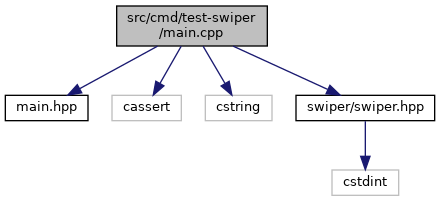
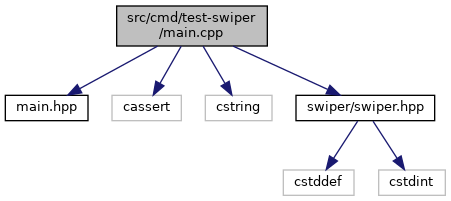
Travis build: 95
Commit: 0c1e7c0692e54abf0f312cadbbbaaf14a0927a81

diff --git a/swiper_8hpp_source.html b/swiper_8hpp_source.html
@@ -71,20 +71,21 @@ $(function() {
 <div class="contents">
 <a href="swiper_8hpp.html">Go to the documentation of this file.</a><div class="fragment"><div class="line"><a name="l00001"></a><span class="lineno">    1</span>&#160;<span class="preprocessor">#pragma once</span></div>
 <div class="line"><a name="l00002"></a><span class="lineno">    2</span>&#160; </div>
-<div class="line"><a name="l00010"></a><span class="lineno">   10</span>&#160;<span class="preprocessor">#include &lt;cstdint&gt;</span></div>
-<div class="line"><a name="l00011"></a><span class="lineno">   11</span>&#160; </div>
-<div class="line"><a name="l00015"></a><span class="lineno"><a class="line" href="namespaceswiper.html">   15</a></span>&#160;<span class="keyword">namespace </span><a class="code" href="namespaceswiper.html">swiper</a> {</div>
-<div class="line"><a name="l00027"></a><span class="lineno">   27</span>&#160;    <span class="keywordtype">void</span> <a class="code" href="namespaceswiper.html#a098835d2b17c1d3924a119f43deda723">Encrypt</a>(<span class="keywordtype">char</span> *hash, int16_t seed, <span class="keyword">const</span> <span class="keywordtype">char</span> *password) noexcept;</div>
-<div class="line"><a name="l00028"></a><span class="lineno">   28</span>&#160; </div>
-<div class="line"><a name="l00037"></a><span class="lineno">   37</span>&#160;    <span class="keywordtype">void</span> <a class="code" href="namespaceswiper.html#a5454b273ec2a80c65d11f67e398ae720">WarmCache</a>(<span class="keywordtype">char</span> *password, <span class="keyword">const</span> <span class="keywordtype">char</span> *hash, int32_t n) noexcept;</div>
-<div class="line"><a name="l00038"></a><span class="lineno">   38</span>&#160; </div>
-<div class="line"><a name="l00050"></a><span class="lineno">   50</span>&#160;    <span class="keywordtype">void</span> <a class="code" href="namespaceswiper.html#a44449e9a1724cda79ba09564c58e259a">Decrypt</a>(<span class="keywordtype">char</span> *password, <span class="keyword">const</span> <span class="keywordtype">char</span> *hash) noexcept;</div>
-<div class="line"><a name="l00051"></a><span class="lineno">   51</span>&#160;}</div>
+<div class="line"><a name="l00010"></a><span class="lineno">   10</span>&#160;<span class="preprocessor">#include &lt;cstddef&gt;</span></div>
+<div class="line"><a name="l00011"></a><span class="lineno">   11</span>&#160;<span class="preprocessor">#include &lt;cstdint&gt;</span></div>
+<div class="line"><a name="l00012"></a><span class="lineno">   12</span>&#160; </div>
+<div class="line"><a name="l00016"></a><span class="lineno"><a class="line" href="namespaceswiper.html">   16</a></span>&#160;<span class="keyword">namespace </span><a class="code" href="namespaceswiper.html">swiper</a> {</div>
+<div class="line"><a name="l00028"></a><span class="lineno">   28</span>&#160;    <span class="keywordtype">void</span> <a class="code" href="namespaceswiper.html#a8665843a456e8c5704a5f38d2c628ecd">Encrypt</a>(<span class="keywordtype">char</span> *hash, <span class="keywordtype">size_t</span> seed, <span class="keyword">const</span> <span class="keywordtype">char</span> *password) noexcept;</div>
+<div class="line"><a name="l00029"></a><span class="lineno">   29</span>&#160; </div>
+<div class="line"><a name="l00038"></a><span class="lineno">   38</span>&#160;    <span class="keywordtype">void</span> <a class="code" href="namespaceswiper.html#a5454b273ec2a80c65d11f67e398ae720">WarmCache</a>(<span class="keywordtype">char</span> *password, <span class="keyword">const</span> <span class="keywordtype">char</span> *hash, int32_t n) noexcept;</div>
+<div class="line"><a name="l00039"></a><span class="lineno">   39</span>&#160; </div>
+<div class="line"><a name="l00051"></a><span class="lineno">   51</span>&#160;    <span class="keywordtype">void</span> <a class="code" href="namespaceswiper.html#a44449e9a1724cda79ba09564c58e259a">Decrypt</a>(<span class="keywordtype">char</span> *password, <span class="keyword">const</span> <span class="keywordtype">char</span> *hash) noexcept;</div>
+<div class="line"><a name="l00052"></a><span class="lineno">   52</span>&#160;}</div>
 </div><!-- fragment --></div><!-- contents -->
-<div class="ttc" id="anamespaceswiper_html"><div class="ttname"><a href="namespaceswiper.html">swiper</a></div><div class="ttdoc">swiper manages legacy Cisco IOS^tm type 7 passwords.</div><div class="ttdef"><b>Definition:</b> swiper.hpp:15</div></div>
+<div class="ttc" id="anamespaceswiper_html_a8665843a456e8c5704a5f38d2c628ecd"><div class="ttname"><a href="namespaceswiper.html#a8665843a456e8c5704a5f38d2c628ecd">swiper::Encrypt</a></div><div class="ttdeci">void Encrypt(char *hash, size_t seed, const char *password) noexcept</div><div class="ttdoc">Encrypt produces Cisco IOS^tm type 7 hashes.</div><div class="ttdef"><b>Definition:</b> swiper.cpp:43</div></div>
+<div class="ttc" id="anamespaceswiper_html"><div class="ttname"><a href="namespaceswiper.html">swiper</a></div><div class="ttdoc">swiper manages legacy Cisco IOS^tm type 7 passwords.</div><div class="ttdef"><b>Definition:</b> swiper.hpp:16</div></div>
 <div class="ttc" id="anamespaceswiper_html_a44449e9a1724cda79ba09564c58e259a"><div class="ttname"><a href="namespaceswiper.html#a44449e9a1724cda79ba09564c58e259a">swiper::Decrypt</a></div><div class="ttdeci">void Decrypt(char *password, const char *hash) noexcept</div><div class="ttdoc">Decrypt reverses Cisco IOS type 7 hashes.</div><div class="ttdef"><b>Definition:</b> swiper.cpp:70</div></div>
 <div class="ttc" id="anamespaceswiper_html_a5454b273ec2a80c65d11f67e398ae720"><div class="ttname"><a href="namespaceswiper.html#a5454b273ec2a80c65d11f67e398ae720">swiper::WarmCache</a></div><div class="ttdeci">void WarmCache(char *password, const char *hash, int32_t n) noexcept</div><div class="ttdoc">WarmCache accelerates successive Decrypt calls, by prepopulating the system cache.</div><div class="ttdef"><b>Definition:</b> swiper.cpp:63</div></div>
-<div class="ttc" id="anamespaceswiper_html_a098835d2b17c1d3924a119f43deda723"><div class="ttname"><a href="namespaceswiper.html#a098835d2b17c1d3924a119f43deda723">swiper::Encrypt</a></div><div class="ttdeci">void Encrypt(char *hash, int16_t seed, const char *password) noexcept</div><div class="ttdoc">Encrypt produces Cisco IOS^tm type 7 hashes.</div><div class="ttdef"><b>Definition:</b> swiper.cpp:43</div></div>
 <!-- start footer part -->
 <hr class="footer"/><address class="footer"><small>
 Generated by &#160;<a href="http://www.doxygen.org/index.html">

diff --git a/swiper_8cpp.html b/swiper_8cpp.html
@@ -83,13 +83,14 @@ Include dependency graph for swiper.cpp:</div>
 <div class="dyncontent">
 <div class="center"><img src="swiper_8cpp__incl.png" border="0" usemap="#src_2swiper_8cpp" alt=""/></div>
 <map name="src_2swiper_8cpp" id="src_2swiper_8cpp">
-<area shape="rect" title=" " alt="" coords="239,5,353,32"/>
-<area shape="rect" href="swiper_8hpp.html" title=" " alt="" coords="5,80,144,107"/>
-<area shape="rect" title=" " alt="" coords="168,80,235,107"/>
-<area shape="rect" title=" " alt="" coords="259,80,333,107"/>
-<area shape="rect" title=" " alt="" coords="357,80,437,107"/>
-<area shape="rect" title=" " alt="" coords="461,80,536,107"/>
-<area shape="rect" title=" " alt="" coords="41,155,108,181"/>
+<area shape="rect" title=" " alt="" coords="251,5,366,32"/>
+<area shape="rect" href="swiper_8hpp.html" title=" " alt="" coords="18,80,157,107"/>
+<area shape="rect" title=" " alt="" coords="181,80,247,107"/>
+<area shape="rect" title=" " alt="" coords="271,80,346,107"/>
+<area shape="rect" title=" " alt="" coords="370,80,450,107"/>
+<area shape="rect" title=" " alt="" coords="474,80,549,107"/>
+<area shape="rect" title=" " alt="" coords="5,155,76,181"/>
+<area shape="rect" title=" " alt="" coords="101,155,167,181"/>
 </map>
 </div>
 </div><table class="memberdecls">
@@ -101,9 +102,9 @@ Namespaces</h2></td></tr>
 </table><table class="memberdecls">
 <tr class="heading"><td colspan="2"><h2 class="groupheader"><a name="func-members"></a>
 Functions</h2></td></tr>
-<tr class="memitem:a098835d2b17c1d3924a119f43deda723"><td class="memItemLeft" align="right" valign="top">void&#160;</td><td class="memItemRight" valign="bottom"><a class="el" href="namespaceswiper.html#a098835d2b17c1d3924a119f43deda723">swiper::Encrypt</a> (char *hash, int16_t seed, const char *password) noexcept</td></tr>
-<tr class="memdesc:a098835d2b17c1d3924a119f43deda723"><td class="mdescLeft">&#160;</td><td class="mdescRight">Encrypt produces Cisco IOS^tm type 7 hashes.  <a href="namespaceswiper.html#a098835d2b17c1d3924a119f43deda723">More...</a><br /></td></tr>
-<tr class="separator:a098835d2b17c1d3924a119f43deda723"><td class="memSeparator" colspan="2">&#160;</td></tr>
+<tr class="memitem:a8665843a456e8c5704a5f38d2c628ecd"><td class="memItemLeft" align="right" valign="top">void&#160;</td><td class="memItemRight" valign="bottom"><a class="el" href="namespaceswiper.html#a8665843a456e8c5704a5f38d2c628ecd">swiper::Encrypt</a> (char *hash, size_t seed, const char *password) noexcept</td></tr>
+<tr class="memdesc:a8665843a456e8c5704a5f38d2c628ecd"><td class="mdescLeft">&#160;</td><td class="mdescRight">Encrypt produces Cisco IOS^tm type 7 hashes.  <a href="namespaceswiper.html#a8665843a456e8c5704a5f38d2c628ecd">More...</a><br /></td></tr>
+<tr class="separator:a8665843a456e8c5704a5f38d2c628ecd"><td class="memSeparator" colspan="2">&#160;</td></tr>
 <tr class="memitem:a5454b273ec2a80c65d11f67e398ae720"><td class="memItemLeft" align="right" valign="top">void&#160;</td><td class="memItemRight" valign="bottom"><a class="el" href="namespaceswiper.html#a5454b273ec2a80c65d11f67e398ae720">swiper::WarmCache</a> (char *password, const char *hash, int32_t n) noexcept</td></tr>
 <tr class="memdesc:a5454b273ec2a80c65d11f67e398ae720"><td class="mdescLeft">&#160;</td><td class="mdescRight">WarmCache accelerates successive <a class="el" href="namespaceswiper.html#a44449e9a1724cda79ba09564c58e259a">Decrypt</a> calls, by prepopulating the system cache.  <a href="namespaceswiper.html#a5454b273ec2a80c65d11f67e398ae720">More...</a><br /></td></tr>
 <tr class="separator:a5454b273ec2a80c65d11f67e398ae720"><td class="memSeparator" colspan="2">&#160;</td></tr>

diff --git a/swiper_8hpp.html b/swiper_8hpp.html
@@ -72,14 +72,16 @@ $(function() {
 <div class="title">swiper.hpp File Reference</div>  </div>
 </div><!--header-->
 <div class="contents">
-<div class="textblock"><code>#include &lt;cstdint&gt;</code><br />
+<div class="textblock"><code>#include &lt;cstddef&gt;</code><br />
+<code>#include &lt;cstdint&gt;</code><br />
 </div><div class="textblock"><div class="dynheader">
 Include dependency graph for swiper.hpp:</div>
 <div class="dyncontent">
 <div class="center"><img src="swiper_8hpp__incl.png" border="0" usemap="#include_2swiper_2swiper_8hpp" alt=""/></div>
 <map name="include_2swiper_2swiper_8hpp" id="include_2swiper_2swiper_8hpp">
 <area shape="rect" title=" " alt="" coords="5,5,196,32"/>
-<area shape="rect" title=" " alt="" coords="67,80,134,107"/>
+<area shape="rect" title=" " alt="" coords="19,80,89,107"/>
+<area shape="rect" title=" " alt="" coords="114,80,181,107"/>
 </map>
 </div>
 </div><div class="textblock"><div class="dynheader">
@@ -103,9 +105,9 @@ Namespaces</h2></td></tr>
 </table><table class="memberdecls">
 <tr class="heading"><td colspan="2"><h2 class="groupheader"><a name="func-members"></a>
 Functions</h2></td></tr>
-<tr class="memitem:a098835d2b17c1d3924a119f43deda723"><td class="memItemLeft" align="right" valign="top">void&#160;</td><td class="memItemRight" valign="bottom"><a class="el" href="namespaceswiper.html#a098835d2b17c1d3924a119f43deda723">swiper::Encrypt</a> (char *hash, int16_t seed, const char *password) noexcept</td></tr>
-<tr class="memdesc:a098835d2b17c1d3924a119f43deda723"><td class="mdescLeft">&#160;</td><td class="mdescRight">Encrypt produces Cisco IOS^tm type 7 hashes.  <a href="namespaceswiper.html#a098835d2b17c1d3924a119f43deda723">More...</a><br /></td></tr>
-<tr class="separator:a098835d2b17c1d3924a119f43deda723"><td class="memSeparator" colspan="2">&#160;</td></tr>
+<tr class="memitem:a8665843a456e8c5704a5f38d2c628ecd"><td class="memItemLeft" align="right" valign="top">void&#160;</td><td class="memItemRight" valign="bottom"><a class="el" href="namespaceswiper.html#a8665843a456e8c5704a5f38d2c628ecd">swiper::Encrypt</a> (char *hash, size_t seed, const char *password) noexcept</td></tr>
+<tr class="memdesc:a8665843a456e8c5704a5f38d2c628ecd"><td class="mdescLeft">&#160;</td><td class="mdescRight">Encrypt produces Cisco IOS^tm type 7 hashes.  <a href="namespaceswiper.html#a8665843a456e8c5704a5f38d2c628ecd">More...</a><br /></td></tr>
+<tr class="separator:a8665843a456e8c5704a5f38d2c628ecd"><td class="memSeparator" colspan="2">&#160;</td></tr>
 <tr class="memitem:a5454b273ec2a80c65d11f67e398ae720"><td class="memItemLeft" align="right" valign="top">void&#160;</td><td class="memItemRight" valign="bottom"><a class="el" href="namespaceswiper.html#a5454b273ec2a80c65d11f67e398ae720">swiper::WarmCache</a> (char *password, const char *hash, int32_t n) noexcept</td></tr>
 <tr class="memdesc:a5454b273ec2a80c65d11f67e398ae720"><td class="mdescLeft">&#160;</td><td class="mdescRight">WarmCache accelerates successive <a class="el" href="namespaceswiper.html#a44449e9a1724cda79ba09564c58e259a">Decrypt</a> calls, by prepopulating the system cache.  <a href="namespaceswiper.html#a5454b273ec2a80c65d11f67e398ae720">More...</a><br /></td></tr>
 <tr class="separator:a5454b273ec2a80c65d11f67e398ae720"><td class="memSeparator" colspan="2">&#160;</td></tr>

diff --git a/namespaceswiper.html b/namespaceswiper.html
@@ -74,9 +74,9 @@ $(function() {
 <table class="memberdecls">
 <tr class="heading"><td colspan="2"><h2 class="groupheader"><a name="func-members"></a>
 Functions</h2></td></tr>
-<tr class="memitem:a098835d2b17c1d3924a119f43deda723"><td class="memItemLeft" align="right" valign="top">void&#160;</td><td class="memItemRight" valign="bottom"><a class="el" href="namespaceswiper.html#a098835d2b17c1d3924a119f43deda723">Encrypt</a> (char *hash, int16_t seed, const char *password) noexcept</td></tr>
-<tr class="memdesc:a098835d2b17c1d3924a119f43deda723"><td class="mdescLeft">&#160;</td><td class="mdescRight">Encrypt produces Cisco IOS^tm type 7 hashes.  <a href="namespaceswiper.html#a098835d2b17c1d3924a119f43deda723">More...</a><br /></td></tr>
-<tr class="separator:a098835d2b17c1d3924a119f43deda723"><td class="memSeparator" colspan="2">&#160;</td></tr>
+<tr class="memitem:a8665843a456e8c5704a5f38d2c628ecd"><td class="memItemLeft" align="right" valign="top">void&#160;</td><td class="memItemRight" valign="bottom"><a class="el" href="namespaceswiper.html#a8665843a456e8c5704a5f38d2c628ecd">Encrypt</a> (char *hash, size_t seed, const char *password) noexcept</td></tr>
+<tr class="memdesc:a8665843a456e8c5704a5f38d2c628ecd"><td class="mdescLeft">&#160;</td><td class="mdescRight">Encrypt produces Cisco IOS^tm type 7 hashes.  <a href="namespaceswiper.html#a8665843a456e8c5704a5f38d2c628ecd">More...</a><br /></td></tr>
+<tr class="separator:a8665843a456e8c5704a5f38d2c628ecd"><td class="memSeparator" colspan="2">&#160;</td></tr>
 <tr class="memitem:a5454b273ec2a80c65d11f67e398ae720"><td class="memItemLeft" align="right" valign="top">void&#160;</td><td class="memItemRight" valign="bottom"><a class="el" href="namespaceswiper.html#a5454b273ec2a80c65d11f67e398ae720">WarmCache</a> (char *password, const char *hash, int32_t n) noexcept</td></tr>
 <tr class="memdesc:a5454b273ec2a80c65d11f67e398ae720"><td class="mdescLeft">&#160;</td><td class="mdescRight">WarmCache accelerates successive <a class="el" href="namespaceswiper.html#a44449e9a1724cda79ba09564c58e259a">Decrypt</a> calls, by prepopulating the system cache.  <a href="namespaceswiper.html#a5454b273ec2a80c65d11f67e398ae720">More...</a><br /></td></tr>
 <tr class="separator:a5454b273ec2a80c65d11f67e398ae720"><td class="memSeparator" colspan="2">&#160;</td></tr>
@@ -140,8 +140,8 @@ Variables</h2></td></tr>
 
 </div>
 </div>
-<a id="a098835d2b17c1d3924a119f43deda723"></a>
-<h2 class="memtitle"><span class="permalink"><a href="#a098835d2b17c1d3924a119f43deda723">&#9670;&nbsp;</a></span>Encrypt()</h2>
+<a id="a8665843a456e8c5704a5f38d2c628ecd"></a>
+<h2 class="memtitle"><span class="permalink"><a href="#a8665843a456e8c5704a5f38d2c628ecd">&#9670;&nbsp;</a></span>Encrypt()</h2>
 
 <div class="memitem">
 <div class="memproto">
@@ -158,7 +158,7 @@ Variables</h2></td></tr>
         <tr>
           <td class="paramkey"></td>
           <td></td>
-          <td class="paramtype">int16_t&#160;</td>
+          <td class="paramtype">size_t&#160;</td>
           <td class="paramname"><em>seed</em>, </td>
         </tr>
         <tr>

diff --git a/main_8cpp.html b/main_8cpp.html
@@ -85,7 +85,8 @@ Include dependency graph for main.cpp:</div>
 <area shape="rect" title=" " alt="" coords="112,95,181,121"/>
 <area shape="rect" title=" " alt="" coords="205,95,272,121"/>
 <area shape="rect" href="swiper_8hpp.html" title=" " alt="" coords="296,95,435,121"/>
-<area shape="rect" title=" " alt="" coords="332,169,399,196"/>
+<area shape="rect" title=" " alt="" coords="283,169,354,196"/>
+<area shape="rect" title=" " alt="" coords="379,169,445,196"/>
 </map>
 </div>
 </div><table class="memberdecls">

diff --git a/namespacemembers.html b/namespacemembers.html
@@ -66,7 +66,7 @@ $(function() {
 : <a class="el" href="namespaceswiper.html#a44449e9a1724cda79ba09564c58e259a">swiper</a>
 </li>
 <li>Encrypt()
-: <a class="el" href="namespaceswiper.html#a098835d2b17c1d3924a119f43deda723">swiper</a>
+: <a class="el" href="namespaceswiper.html#a8665843a456e8c5704a5f38d2c628ecd">swiper</a>
 </li>
 <li>WarmCache()
 : <a class="el" href="namespaceswiper.html#a5454b273ec2a80c65d11f67e398ae720">swiper</a>

diff --git a/namespacemembers_func.html b/namespacemembers_func.html
@@ -66,7 +66,7 @@ $(function() {
 : <a class="el" href="namespaceswiper.html#a44449e9a1724cda79ba09564c58e259a">swiper</a>
 </li>
 <li>Encrypt()
-: <a class="el" href="namespaceswiper.html#a098835d2b17c1d3924a119f43deda723">swiper</a>
+: <a class="el" href="namespaceswiper.html#a8665843a456e8c5704a5f38d2c628ecd">swiper</a>
 </li>
 <li>WarmCache()
 : <a class="el" href="namespaceswiper.html#a5454b273ec2a80c65d11f67e398ae720">swiper</a>

diff --git a/search/functions_1.js b/search/functions_1.js
@@ -1,4 +1,4 @@
 var searchData=
 [
-  ['encrypt_16',['Encrypt',['../namespaceswiper.html#a098835d2b17c1d3924a119f43deda723',1,'swiper']]]
+  ['encrypt_16',['Encrypt',['../namespaceswiper.html#a8665843a456e8c5704a5f38d2c628ecd',1,'swiper']]]
 ];

diff --git a/search/all_1.js b/search/all_1.js
@@ -1,4 +1,4 @@
 var searchData=
 [
-  ['encrypt_1',['Encrypt',['../namespaceswiper.html#a098835d2b17c1d3924a119f43deda723',1,'swiper']]]
+  ['encrypt_1',['Encrypt',['../namespaceswiper.html#a8665843a456e8c5704a5f38d2c628ecd',1,'swiper']]]
 ];

diff --git a/README.md b/README.md
@@ -1,1 +1,1 @@
-Thu 11 Mar 2021 04:19:28 AM UTC
+Thu 11 Mar 2021 04:24:30 AM UTC
